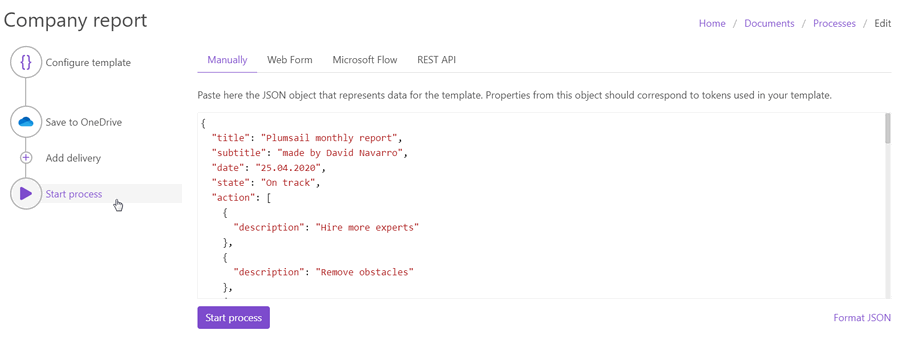
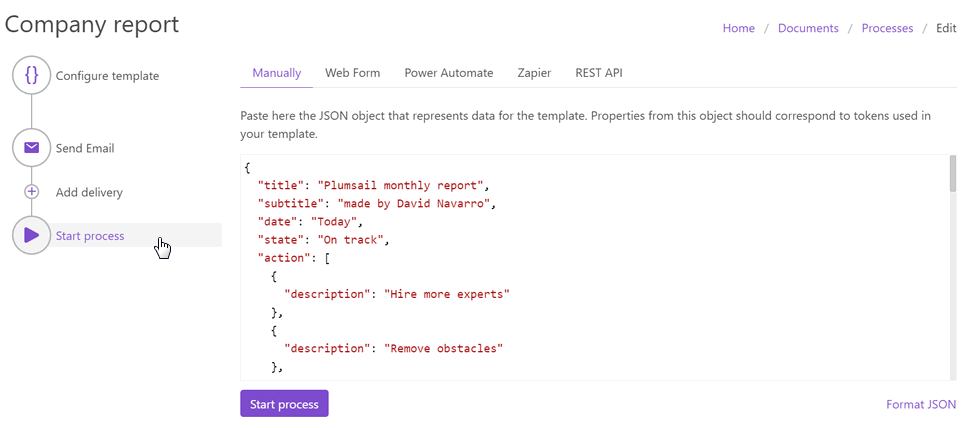
fixed Create pptx and added Start from Zapier

diff --git a/source/user-guide/processes/examples/create-pptx-from-template-processes.rst b/source/user-guide/processes/examples/create-pptx-from-template-processes.rst
@@ -5,16 +5,24 @@ Let us say you need to create company report presentations every month. This art
 
 **Processes** are a handy interface for creating documents from templates, converting, and delivering them in a few simple steps.
 
-With its help, we’ll create a company report with tables and charts from a PPTX template. Below is the picture of the resulting presentation - the title slide and one of the body ones. You can `download this file <../../../_static/files/document-generation/demos/pptx-report-result.pptx>`_ to see the ready report. 
+With its help, we’ll create a company report with tables and charts from a PPTX template. Below are the pictures of slides from a template and the resulting presentation - the title slide and one of the body ones. You can download complete files from the links above the screenshots to compare them.
 
 .. list-table::
     :header-rows: 1
 
-    *   - Title slide
-        - Slide with a chart
-    *   - .. image:: ../../../_static/img/user-guide/processes/how-tos/title-slide.png 
+    *   - Template
+        - Result
+    *   - `Download template document <../../_static/files/document-generation/demos/pptx-report-template.pptx>`_           
+            .. image:: ../../../_static/img/user-guide/processes/how-tos/template-title-slide.png 
+                :alt: template title slide
+
+            .. image:: ../../../_static/img/user-guide/processes/how-tos/template-chart-slide.png 
+                :alt: template chart slide
+        - `Download result document <../../_static/files/document-generation/demos/pptx-report-result.pptx>`_
+            .. image:: ../../../_static/img/user-guide/processes/how-tos/title-slide.png 
                 :alt: company report title slide
-        - .. image:: ../../../_static/img/user-guide/processes/how-tos/chart-slide.png
+            
+            .. image:: ../../../_static/img/user-guide/processes/how-tos/chart-slide.png
                 :alt: chart in company report    
 
 .. contents::
@@ -28,8 +36,9 @@ First, register or login to your `Plumsail account <https://account.plumsail.com
 
 Create Process
 --------------
+And before we start, if you haven't downloaded the template file yet, please, `download it <../../../_static/files/document-generation/demos/pptx-report-template.pptx>`_, you will need it further.
 
-Click on the **Add Process** button.
+Now, we'are ready. Click on the **Add Process** button.
 
 .. image:: ../../../_static/img/user-guide/processes/how-tos/add-process-button.png
     :alt: add process button
@@ -39,9 +48,9 @@ Give a name to the Process to recognize it later.
 .. image:: ../../../_static/img/user-guide/processes/how-tos/create-pptx-process.png
    :alt: Сreate PPTX from template
 
-Upload the template you want to use. Here is `the link for downloading the template <../../../_static/files/document-generation/demos/pptx-report-template.pptx>`_ we use in this example.
+Upload the template you already have. 
 
-When creating your own ones, mind the templating language. Plumsail PowerPoint PPTX templates use a different approach than most other templating solutions. It uses a minimal amount of syntax to make your work done.
+When you create your own template, mind the templating language. Plumsail PowerPoint PPTX templates use a different approach than most other templating solutions. It uses a minimal amount of syntax to make your work done.
 
 To learn more about the templating engine, check out `the documentation article <../../../document-generation/pptx/how-it-works.html>`_.
 
@@ -80,7 +89,9 @@ After you click on the *Test template* button, you will see the dialog where you
 .. image:: ../../../_static/img/user-guide/processes/how-tos/json-pptx-template.png
    :alt: json data PPTX template
 
-To test the template from our example, you can copy and paste this JSON data:
+To test the template from our example, you can copy and paste the JSON data shown below.
+
+.. note:: This is JSON for testing. You can pass data from an external system or web form to the process. See the `Start process section <#start-process>`_. 
 
 .. code:: json
 
@@ -175,8 +186,9 @@ You can start the process :
 - `manually <../start-process-manually.html>`_ with your JSON data;
 - `by Plumsail Web form <../start-process-web-form.html>`_ embedding it to the process;
 - `using Power Automate (former Microsoft Flow) <../start-process-ms-flow.html>`_;
+- `using Zapier <../start-process-zapier.html>`_
 - `using REST API <../start-process-rest-api.html>`_;
 
-`Power Automate Flow <https://flow.microsoft.com/>`_ and `Zapier <https://zapier.com/>`_ allow you to connect the process with other apps. It enables you to gather data from one app and pass on to the process to populate a PowerPoint template. Thus, you can populate the PPTX template from various web forms, CRM systems, SharePoint lists, and thousands of other web applications. 
+.. hint:: Use `Power Automate Flow <../../../getting-started/use-from-flow.html>`_ and `Zapier <../../../getting-started/use-from-zapier.html>`_ to connect the process with other apps. It enables you to gather data from one app and pass on to the process to populate a PowerPoint template. Thus, you can populate the PPTX template from various web forms, CRM systems, SharePoint lists, and thousands of other web applications. 
 
-.. note:: There is a separate action in the Plumsail Documents connector for Microsoft Power Automate - `Create PPTX document from template <../../../flow/actions/document-processing.html#create-pptx-document-from-template>`_. 
+.. note:: There is a separate action in the Plumsail Documents connector for Microsoft Power Automate - `Create PPTX document from template <../../../flow/actions/document-processing.html#create-pptx-document-from-template>`_. Use it if you don't need all power of processes and just want to generate a document from a template.

diff --git a/source/user-guide/processes/start-process-zapier.rst b/source/user-guide/processes/start-process-zapier.rst
@@ -1,32 +1,28 @@
-Use Zapier
-==========
+Zapier
+======
 
-`Zapier <https://zapier.com/apps/plumsail-documents/integrations>`_ allows you to connect the `Processes <https://plumsail.com/docs/documents/v1.x/user-guide/processes/index.html>`_ with thousands of other web applications. 
+You can use `Zapier integration <https://zapier.com/apps/plumsail-documents/integrations>`_ to start the process of generating documents from template.
 
-**Plumsail Processes** are a user-friendly interface where you can configure your documents flow and make it automated. You work with templates, create documents in different formats, convert them, protect if needed, or add watermarks to PDFs, deliver the results - all actions in one place. 
+`Zapier <https://zapier.com/>`_ allows you to connect the document generation process with other web applications. It's quite easy to handle automated connections in Zapier - zaps - to get your paperwork done automatically. 
 
 .. contents::
     :local:
     :depth: 2
 
-Introduction to Zapier
-~~~~~~~~~~~~~~~~~~~~~~
+Use ready zap templates
+-----------------------
 
-**Zaps** are automated connections between apps in Zapier. Every Zap has a **trigger** - an event that makes this Zap start. And after the trigger, an **action** or a series of actions follow to bring the desired result.
+There are various ready-to-use zap templates you can go to right from the step *Start process*. Just hit *Use this Zap*. You'll be redirected to your Zapier account to personalize this particular zap. Learn how to `customize Start Process in Plumsail Documents action <#customize-start-process>`_.
 
-Some apps integrated with Zapier have both triggers and actions. Some have either triggers or actions.
+.. image:: ../../_static/img/user-guide/processes/start-zapier.png
+    :alt: Start process from Zapier
 
-Plumsail Documents include an action **Start Process**.
+Or you can create your own zap to start the process. 
 
-.. image:: ../../_static/img/user-guide/processes/start-process-zapier.png
-    :alt: Start process in Zapier
+Create zap to start process in Zapier
+-------------------------------------
 
-Create zaps with Plumsail Documents
-~~~~~~~~~~~~~~~~~~~~~~~~~~~~~~~~~~~
-
-You can generate personalized documents based on data from thousands of apps in Zapier. Various events can trigger an automated connection of apps - a Zap. It can be web form entries, new rows in sheets, new events in calendars, new opportunities in CRM - the list is never-ending. 
-
-We'll show how to handle Plumsail Documents action - Start Process - in Zapier.  
+We'll take a look at a simple zap to show how to use Start process action in Zapier. 
 
 Let us say you have a Google Calendar for conferences. You need to generate personalized invitations. 
 
@@ -36,14 +32,14 @@ This is how our Zap looks:
     :alt: sample zap
 
 Set trigger
------------
+~~~~~~~~~~~
 
 The first step is a trigger. In this particular case, it's a new event in the Google Calendar. 
 
 When a new event is added to the Google Calendar, the process of generating tickets for this event will start.
 
 Start Process in Plumsail Documents
------------------------------------
+~~~~~~~~~~~~~~~~~~~~~~~~~~~~~~~~~~~
 
 After setting a trigger, add an action Start process. For that, search for Plumsail Documents, choose an action Start Process.
 
@@ -53,7 +49,7 @@ After setting a trigger, add an action Start process. For that, search for Plums
 Click Continue. If this is your first Zap, at this point, you'll need to Sign in to your `Plumsail Account <https://auth.plumsail.com/account/login>`_ from Zapier to establish a connection between the app and your account. If you already have a Plumsail account tied to the app, you can add another one at this step, and use it instead.
 
 Customize Start Process
------------------------
+~~~~~~~~~~~~~~~~~~~~~~~
 
 Choose the process you want to start by this Zap from the dropdown. 
 
@@ -70,14 +66,12 @@ Use the output from the trigger to specify values:
     :alt: JSON data in Zapier
 
 Use the result file in Zapier
-~~~~~~~~~~~~~~~~~~~~~~~~~~~~~
+-----------------------------
 
 It's possible to use the output of the Start process action further in the zap. 
 
 You'll be able to add the result file as an attachment:
 
 .. image:: ../../_static/img/user-guide/processes/result-file-zapier.png
-    :alt: use result file in Zapier
-
-
+    :alt: use resul file in Zapier
 

diff --git a/source/user-guide/processes/start-process.rst b/source/user-guide/processes/start-process.rst
@@ -1,7 +1,7 @@
 Start process
 =============
 
-Now, when you configured `document template <create-template.html>`_ and `deliveries <create-delivery.html>`_ you can start generating your documents. Click on the "Start process" button on the left side of your process. It will show you four tabs with instructions describing four ways to start your process:
+Now, when you configured `document template <create-template.html>`_ and `deliveries <create-delivery.html>`_ you can start generating your documents. Click on the "Start process" button on the left side of your process. It will show you five tabs with instructions describing five ways to start your process:
 
 .. image:: ../../_static/img/user-guide/processes/start-process-button.png
     :alt: Start process button
@@ -14,6 +14,7 @@ Now, when you configured `document template <create-template.html>`_ and `delive
   start-process-manually  
   start-process-web-form
   start-process-ms-flow
+  start-process-zapier
   start-process-rest-api
 
 .. note:: After you have started the process, you can check its `runs history <runs-history.html>`_.
